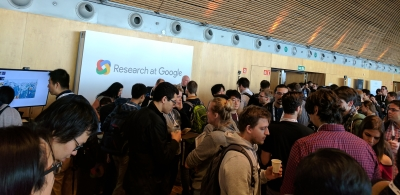
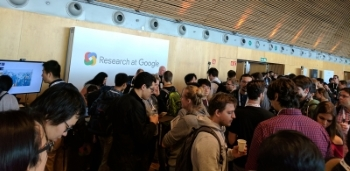
Adding some additional pics of slides, resizing crowds in hope of better rendering.

diff --git a/content/nips-2016-trip-report.md b/content/nips-2016-trip-report.md
@@ -7,13 +7,13 @@ Slug: nips-2016-trip-report
 Status: draft
 Summary: Thoughts and insights from the 2016 NIPS conference 
 
-![NIPS Logo](../images/NipsLogoSmall.png "NIPS Logo")
+![NIPS Logo](./images/NipsLogoSmall.png "NIPS Logo")
 [NIPS (Neural Information Processing Symposium)](https://nips.cc) is one of the two largest academic conferences in the Machine Learning world (the other being ICML). This year the conference was held in Barcelona, which worked out well for me because I was planning on attending a hackfest the following week in Milan, so I decided to go as an attendee. 
 
 The conference has doubled in size in the past year, with ~6000 attendees, so their advice to pick up your badge the day before the conference began proved to be quite wise.
 
 <a style='text-decoration: none; color: orange;'>
-<img src="../images/nips2016-registration-line.jpg" alt="Huge line at registration"/>
+<img src="./images/nips2016-registration-line.jpg" alt="Huge line at registration"/>
 <div style="width:790px;text-align:center;">Picking up the day before == brilliant</div>
 </a>
 
@@ -22,8 +22,8 @@ The conference has doubled in size in the past year, with ~6000 attendees, so th
 There were a few general insights I had during the conference. First - Google, Facebook, and OpenAI are the stars of the show - from the lanyard giving Google and Facebook pride-of-place, to the dueling Google Research and DeepMind booths, Google seems to be the dominant force. Deep Learning is still the star, but Tensor-based learning methods are generally only increasing in prominence - very little on "traditional" methods. Microsoft's booth had solid attendance, but our relatively confusing story (how many offerings do we have? is our Deep Learning system named CNTK or Cognitive Toolkit?) seemed to prevent "virality" compared to Google's TensorFlow or Facebook's Torch. I talked up CNTK v2 to a few people, but when they went to our booth to get stickers only "Microsoft Cognitive Toolkit" stickers could be found.
 
 <a style='text-decoration: none; color: orange'>
-<img src="../images/nips2016-google-research-booth.jpg" alt="Crowd around Google Research booth" style="float:left;margin-right:10px"/>
-<img src="../images/nips2016-microsoft-booth.jpg" alt="Crowd around Microsoft booth"/>
+<img src="./images/nips2016-google-research-booth.jpg" alt="Crowd around Google Research booth" style="float:left;margin-right:10px"/>
+<img src="./images/nips2016-microsoft-booth.jpg" alt="Crowd around Microsoft booth"/>
 <div style="width:790px;text-align:center;">Google Research vs. Microsoft Booths</div>
 </a>
 
@@ -33,13 +33,28 @@ There were a few general insights I had during the conference. First - Google, F
 
 [Yann LeCun](https://en.wikipedia.org/wiki/Yann_LeCun) gave an interesting keynote on the need for unsupervised learning in general domains as the big open challenge for the future of ML. He called the talk [Predictive Learning](https://drive.google.com/file/d/0BxKBnD5y2M8NREZod0tVdW5FLTQ/view), and described the need for the model to maintain an accurate "world state" in order to begin reasoning in a more general sense.
 
+<a style='text-decoration: none; color: orange;'>
+<img src="./images/yanns-cake.png" alt="Cake as illustration of learning challenges"/>
+<div style="width:790px;text-align:center;">Yann's now-famous cake</div>
+</a>
+
 Drew Purves (former Microsoftie, now at DeepMind) gave a keynote where he talked about the launch of [DeepMind's Lab](https://github.com/deepmind/lab) and more generally talked about the obligation of ML to help solve some of our most pressing environmental problems. He had some really great illustrations in those slides, but I haven't seen him post them yet unfortunately.
+
+<blockquote class="twitter-tweet" data-lang="en"><p lang="en" dir="ltr">Psyched so many at <a href="https://twitter.com/hashtag/nips2016?src=hash">#nips2016</a> loved illustrations from my <a href="https://twitter.com/DeepMindAI">@DeepMindAI</a> artist colleague Max Cant! Here&#39;s a decent version of the medley :) <a href="https://t.co/I7ShngYiMQ">pic.twitter.com/I7ShngYiMQ</a></p>&mdash; Drew Purves (@DrewPurves) <a href="https://twitter.com/DrewPurves/status/806427029306560512">December 7, 2016</a></blockquote>
+<script async src="//platform.twitter.com/widgets.js" charset="utf-8"></script>
+
+![Images from Drew Purves talk](https://pbs.twimg.com/media/CzEBCDIXcAArICW.jpg)
 
 [Kyle Cranmer](https://en.wikipedia.org/wiki/Kyle_Cranmer) presented on using ML models in the processing of data at CERN, and some of the unique challenges they face there. They deal with truly big data there, and do a substantial amount of pre-filtering in order to even scope the problem down to something surmountable ([slides](https://figshare.com/articles/NIPS_2016_Keynote_Machine_Learning_Likelihood_Free_Inference_in_Particle_Physics/4291565/1) and [video](https://cds.cern.ch/record/1541893)). With ~1PB of data per second, mountains of processors filter the incoming data to try and trap only "relevant" events (leading to "only" 100GB/s of data). His talk ranged far and wide over many different approaches, so I encourage you to take a look at the slide deck. I'll just call out two interesting developments. First, [CARL](http://diana-hep.org/carl/), a module for "likelihood-free inference" in Python for using likelihood estimation techniques in model-training. Second, a [Jupyter Notebook](https://github.com/lukasheinrich/weinberg-test) for generating high-energy physics simulations on the web. 
 
 ### Generative Adversarial Networks
 
 Earlier this year at ICML the big trends were around understanding Deep Neural Nets and exploring Deep Reinforcement Learning. At NIPS Generative Adversarial Networks were the star of the show, with [Yann LeCun](https://en.wikipedia.org/wiki/Yann_LeCun) saying in his keynote that they were the most important development in ML in the last ten to twenty years. Ian Goodfellow gave a great tutorial on GANs (see [slides here](http://www.iangoodfellow.com/slides/2016-12-04-NIPS.pdf)), and the creators of [InfoGAN](https://arxiv.org/abs/1606.03657v1) also gave a great talk.
+
+<a style='text-decoration: none; color: orange;'>
+<img src="./images/goodfellow-generative-taxonomy.png" alt="Taxonomy of generative models"/>
+<div style="width:790px;text-align:center;">Great overview of generative models</div>
+</a>
 
 One key takeaway was that there is really no good method at present for judging the "success" of GANs in many domains. Maximum likelihood optimization results in blurry images, or images that bear some resemblance to reality but are still far from real. This extends to other domains as well, and is one of the big open issues in the field. In addition, mode collapse is still an unsolved problem (where a GAN Generator learns to generate a single sample type, instead of a diversity, since that's enough to fool the Descriminator). There has been some progress in this area, but it's another open area of research for a more general solution.
 
@@ -56,7 +71,7 @@ There was a great talk in the Tensor workshop on how Deep Networks - and in part
 The workshops seemed to give some actual in-the-wild implementations a chance to present, with an interesting talk from someone at Sandia on using a DNN to compute better estimates for parameters in dynamical systems - in their case fluid flow dynamics. This led to substantial improvements of the simulation over their current default simplifying assumptions, with only a marginal increase in simulation runtime.
 
 <a style='text-decoration: none; color: orange;'>
-<img src="../images/bcn-beach.jpg" alt="Beach scene as example of dynamical system"/>
+<img src="./images/bcn-beach.jpg" alt="Beach scene as example of dynamical system"/>
 <div style="width:790px;text-align:center;">Another fluid-flow example</div>
 </a>
 
@@ -67,7 +82,7 @@ Variational Inference was big as well, with a great tutorial on it that outlined
 Forecasting and Time-Series were not ignored, but still seem like areas where traditional methods (e.g. ARIMA and its descendents) are holding their own. One tutorial went into deep math around why DL methods could forecast well, but was based on (IMHO) the questionable assumption of "smoothness" in the range [T-S, T]. As someone who did Forecasting for Amazon, I can guarantee that the area around Black Friday is anything but differentiable. 
 
 <a style='text-decoration: none; color: orange;'>
-<img src="../images/smooth-surfaces-were-a-theme.jpg" alt="Rounded hallway in Park Guell"/>
+<img src="./images/smooth-surfaces-were-a-theme.jpg" alt="Rounded hallway in Park Guell"/>
 <div style="width:790px;text-align:center;">Smoothness in action</div>
 </a>
 
@@ -78,6 +93,6 @@ I cannot even begin to discuss the full breadth of content presented at NIPS. Ma
 Definitely an exciting time to be in the field - I just wish I had more time to keep up. By the end of the conference, my brain felt like it had been thoroughly chewed on.
 
 <a style='text-decoration: none; color: orange;'>
-<img src="../images/brain-eaten.jpg" alt="Snake-head sculpture appearing to chew on woman's head"/>
+<img src="./images/brain-eaten.jpg" alt="Snake-head sculpture appearing to chew on woman's head"/>
 <div style="width:490px;text-align:center;">Braiinnnzzz</div>
 </a>
